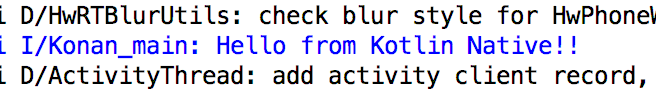
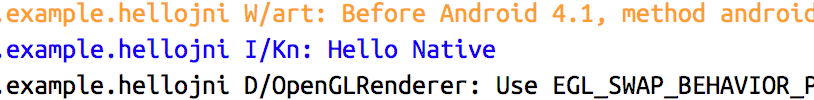
Direct Jni demo of Kotlin Native.

diff --git a/prebuiltLibrary/src/main/kotlin/main.kt b/prebuiltLibrary/src/main/kotlin/main.kt
@@ -1,5 +1,24 @@
+import platform.android.*
+import kotlinx.cinterop.*
+
+@CName("Java_com_example_hellojni_HelloJni_sayHello")
 fun sayHello(){
-    println("Hello from Kotlin Native!!")
+    __android_log_print(ANDROID_LOG_INFO.toInt(), "Kn", "Hello %s", "Native")
 }
 
-fun getString() = "This is from Kotlin Native!!"
+@CName("Java_com_example_hellojni_HelloJni_stringFromJNI")
+fun stringFromJNI(env: CPointer<JNIEnvVar>, thiz: jobject): jstring {
+    memScoped {
+        return env.pointed.pointed!!.NewStringUTF!!.invoke(env, "This is from Kotlin Native!!".cstr.ptr)!!
+    }
+}
+
+@CName("Java_com_example_hellojni_HelloJni_callLoop")
+fun callLoop(env: CPointer<JNIEnvVar>, thiz: jobject): jstring {
+    memScoped {
+        val jniEnvVal = env.pointed.pointed!!
+        val jclass = jniEnvVal.GetObjectClass!!.invoke(env, thiz)
+        val methodId = jniEnvVal.GetMethodID!!.invoke(env, jclass, "callFromNative".cstr.ptr, "()Ljava/lang/String;".cstr.ptr)
+        return jniEnvVal.CallObjectMethodA!!.invoke(env, thiz, methodId, null) as jstring
+    }
+}

diff --git a/app/src/main/java/com/example/hellojni/HelloJni.java b/app/src/main/java/com/example/hellojni/HelloJni.java
@@ -30,7 +30,12 @@ public class HelloJni extends AppCompatActivity {
          */
         setContentView(R.layout.activity_hello_jni);
         TextView tv = (TextView)findViewById(R.id.hello_textview);
-        tv.setText( stringFromJNI() );
+        tv.setText(stringFromJNI());
+
+        sayHello();
+
+        tv.append("\n");
+        tv.append(callLoop());
     }
     /* A native method that is implemented by the
      * 'hello-jni' native library, which is packaged
@@ -48,7 +53,13 @@ public class HelloJni extends AppCompatActivity {
      * Trying to call this function will result in a
      * java.lang.UnsatisfiedLinkError exception !
      */
-    public native String  unimplementedStringFromJNI();
+    public native String  callLoop();
+
+    public native void sayHello();
+
+    public String callFromNative(){
+        return "This is from Java!!";
+    }
 
     /* this is used to load the 'hello-jni' library on application
      * startup. The library has already been unpacked into
@@ -56,6 +67,6 @@ public class HelloJni extends AppCompatActivity {
      * installation time by the package manager.
      */
     static {
-        System.loadLibrary("hello-jni");
+        System.loadLibrary("knlib");
     }
 }

diff --git a/README.md b/README.md
@@ -1,26 +1,45 @@
 Hello KNI
 =========
 
-修改 Google 官方 Jni 例子，加入对 Kotlin Native 生成的动态库的调用。目前 Jni 与 Kotlin Native 互通仍然需要 C wrap。实际上目前 Kotlin Native 只能通过 C 来与其他语言交互，这一点也可以参照 Kotlin Native 官方的 Python 例子。
+This is a Demo of Jni calling Kotlin Native originated from Google's jni demo.
 
-### 构建步骤
+### Contents
 
-1. 安装 Kotlin Native 编译器，当然你也可以自己编译。把编译器的路径（包含 konan 命令的目录）添加到 $PATH。
-2. 运行以下命令得到 Kotlin Native 编译好的依赖：
+Kotlin Native can interop with C directly. In order to call Kotlin Native functions from Java, we should use `CName` to annotated the functions with a proper name:
+
+```kotlin
+@CName("Java_com_example_hellojni_HelloJni_stringFromJNI")
+fun stringFromJNI(env: CPointer<JNIEnvVar>, thiz: jobject): jstring {
+    memScoped {
+        return env.pointed.pointed!!.NewStringUTF!!.invoke(env, "This is from Kotlin Native!!".cstr.ptr)!!
+    }
+}
+```
+
+What's in the demo：
+
+* Uses of Android Log
+* Return a Java String
+* Call Java methods from Kotlin Native
+
+### How to Build
+
+1. Install Kotlin Native compiler, export konanc to $PATH
+2. Run this shell：
 
 	```sh
 	cd prebuiltLibrary
 	./build.sh
 	```
 
-3. 运行 app。
+3. Build and run your app
 
-### 运行结果
+### Preview
 
-运行截图：
+Screen shot:
 
 ![](images/screen-shot.png)
 
-日志输出：
+Logcat :
 
 ![](images/log.png)

diff --git a/README_ZH.md b/README_ZH.md
@@ -1,0 +1,45 @@
+Hello KNI
+=========
+
+修改 Google 官方 Jni 例子，加入对 Kotlin Native 生成的动态库的调用。
+
+### 示例内容
+
+除了 Objective-C 以外，目前 Kotlin Native 只能通过 C 来与其他语言交互，这一点也可以参照 Kotlin Native 官方的 Python 例子。为了让 Java 能够链接到 Kotlin Native 的函数，我们需要通过 `CName` 注解来显式的声明，例如：
+
+```kotlin
+@CName("Java_com_example_hellojni_HelloJni_stringFromJNI")
+fun stringFromJNI(env: CPointer<JNIEnvVar>, thiz: jobject): jstring {
+    memScoped {
+        return env.pointed.pointed!!.NewStringUTF!!.invoke(env, "This is from Kotlin Native!!".cstr.ptr)!!
+    }
+}
+```
+
+示例简单演示了：
+
+* 如何在 Kotlin Native 中使用 Android 日志系统输出日志
+* 如何返回 Java String 类型
+* 如何调用 Java 方法
+
+### 构建步骤
+
+1. 安装 Kotlin Native 编译器，当然你也可以自己编译。把编译器的路径（包含 konan 命令的目录）添加到 $PATH。
+2. 运行以下命令得到 Kotlin Native 编译好的依赖：
+
+	```sh
+	cd prebuiltLibrary
+	./build.sh
+	```
+
+3. 运行 app。
+
+### 运行结果
+
+运行截图：
+
+![](images/screen-shot.png)
+
+日志输出：
+
+![](images/log.png)
